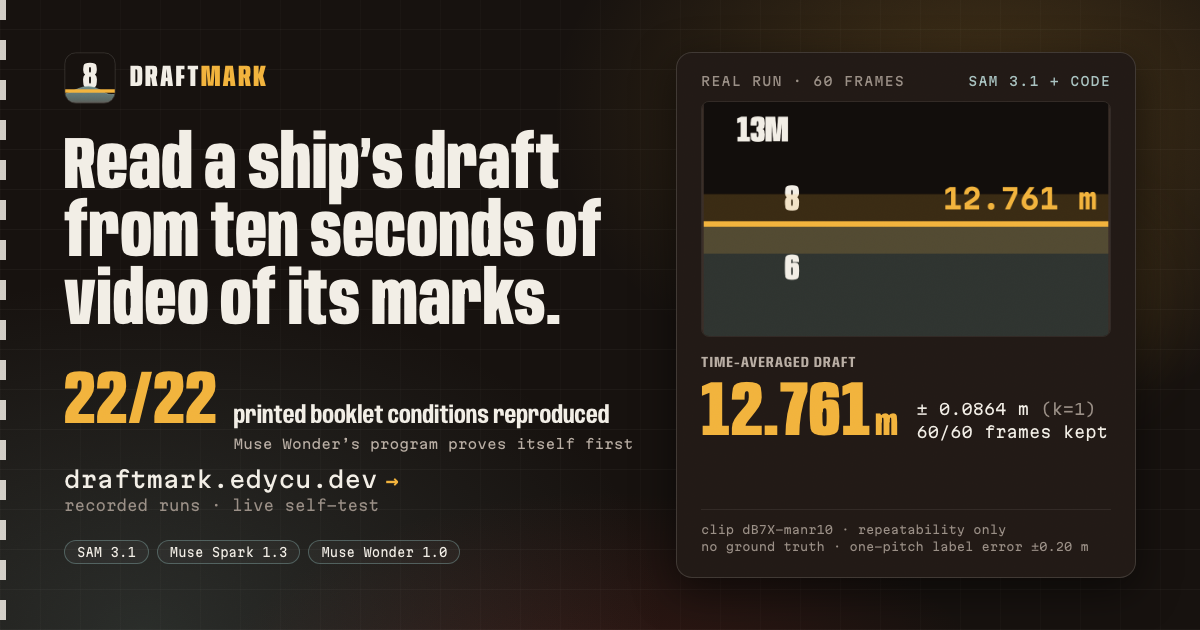
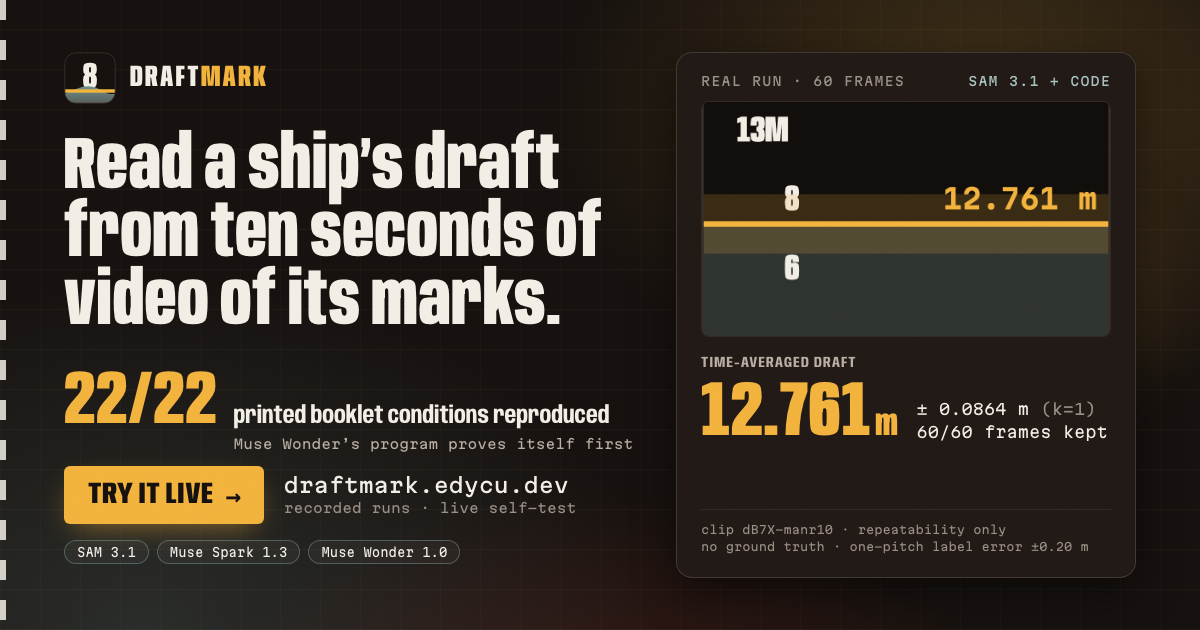
feat: architecture on the landing page and a deck slide, OG card call to action, faster first paint
- landing: unnumbered 'How it fits together' figure after line 005 (194 KB webp, lazy)
- deck: new slide 007 Architecture (landscape crop + legend); 12 slides
- og-image.png: 'Try it live' call to action (1200x630, 332 KB), cache bust v=7
- perf: hero h1 no longer animates (LCP), no layout read on load (forced reflow),
  version.json fetched only when a version stamp scrolls into view
- a11y: alt texts under 100 characters

Changed region(s): [[0.0308, 0.7238, 0.4933, 0.8746]]

diff --git a/public/index.html b/public/index.html
@@ -16,7 +16,7 @@
 <meta property="og:url" content="https://draftmark.edycu.dev/">
 <meta property="og:title" content="DraftMark — read a ship's draft from ten seconds of video">
 <meta property="og:description" content="SAM 3.1 finds the marks and water; code averages the waterline; Muse Wonder 1.0 writes the program, the booklet grades it.">
-<meta property="og:image" content="https://draftmark.edycu.dev/og-image.png?v=6">
+<meta property="og:image" content="https://draftmark.edycu.dev/og-image.png?v=7">
 <meta property="og:image:width" content="1200">
 <meta property="og:image:height" content="630">
 <meta property="og:image:alt" content="DraftMark — time-average a ship's waterline from ten seconds of video of its draft marks; Muse Wonder's program reproduced 22/22 printed booklet conditions">
@@ -24,7 +24,7 @@
 <meta name="twitter:creator" content="@edycutjong">
 <meta name="twitter:title" content="DraftMark — read a ship's draft from ten seconds of video">
 <meta name="twitter:description" content="SAM 3.1 finds the marks and water; code averages the waterline; Muse Wonder 1.0 writes the program, the booklet grades it.">
-<meta name="twitter:image" content="https://draftmark.edycu.dev/og-image.png?v=6">
+<meta name="twitter:image" content="https://draftmark.edycu.dev/og-image.png?v=7">
 <link rel="preload" href="fonts/anybody-100-900.woff2" as="font" type="font/woff2" crossorigin>
 <link rel="preload" href="fonts/ibm-plex-sans-400-600.woff2" as="font" type="font/woff2" crossorigin>
 <link rel="preload" href="fonts/martian-mono-400-600.woff2" as="font" type="font/woff2" crossorigin>
@@ -265,6 +265,7 @@ h2 em{font-style:normal;color:var(--after)}
 
 /* ---------- demo pair: terminal replay + real screen ---------- */
 .sec--demo{background:linear-gradient(180deg,#1b1411,var(--bg))}
+.arch{margin:32px 0 0}.arch>a{display:block;border:1px solid var(--rule);border-radius:6px;overflow:hidden;background:var(--bg);box-shadow:0 30px 60px -36px rgba(0,0,0,.9);transition:border-color .18s}.arch>a:hover{border-color:var(--muted)}.arch img{display:block;width:100%;height:auto}.arch .cap a{color:inherit;text-decoration:underline;text-underline-offset:3px}
 .tabs{display:flex;gap:6px;margin:0 0 18px;flex-wrap:wrap}
 .tabs button{font:500 13px/1 var(--font-data);color:var(--muted);background:transparent;border:1px solid var(--rule);border-radius:3px;padding:12px 14px;cursor:pointer;min-height:44px;transition:color .18s,border-color .18s,background .18s}
 .tabs button:hover{color:var(--ink);border-color:var(--muted)}
@@ -362,7 +363,7 @@ h2 em{font-style:normal;color:var(--after)}
   <div class="wrap hero__grid">
     <div>
       <p class="where stag"><b>DraftMark</b> · measures a moving waterline over 60 frames of video</p>
-      <h1 class="stag"><span class="l">The sea keeps</span> <span class="l">moving. The reading</span> <em class="l">finally holds still.</em></h1>
+      <h1><span class="l">The sea keeps</span> <span class="l">moving. The reading</span> <em class="l">finally holds still.</em></h1>
       <p class="lede stag">Before dawn, a surveyor must turn a moving waterline into the one draft reading the cargo figure hangs on. On a 2&times; crop of the mark column, SAM&nbsp;3.1 finds the marks in <b data-proof="evidence/core-run-dB7X.md">60 of 60 frames</b> of a real hull clip; separately, the program Muse Wonder&nbsp;1.0 wrote must reproduce one booklet&rsquo;s printed conditions before it may compute (after two regenerations, <b data-proof="evidence/selftest-booklet.md">22 of 22</b>).</p>
       <div class="cta stag">
         <a class="btn" href="https://github.com/edycutjong/draftmark"><svg viewBox="0 0 16 16" aria-hidden="true"><path fill="currentColor" d="M8 0a8 8 0 0 0-2.53 15.59c.4.07.55-.17.55-.38v-1.33c-2.23.48-2.7-1.07-2.7-1.07-.36-.92-.89-1.17-.89-1.17-.73-.5.06-.49.06-.49.8.06 1.23.83 1.23.83.72 1.22 1.88.87 2.34.66.07-.52.28-.87.5-1.07-1.78-.2-3.65-.89-3.65-3.95 0-.87.31-1.59.82-2.15-.08-.2-.36-1.02.08-2.12 0 0 .67-.22 2.2.82a7.6 7.6 0 0 1 4 0c1.53-1.04 2.2-.82 2.2-.82.44 1.1.16 1.92.08 2.12.51.56.82 1.28.82 2.15 0 3.07-1.87 3.75-3.66 3.95.29.25.54.73.54 1.48v2.2c0 .21.15.46.55.38A8 8 0 0 0 8 0Z"/></svg>GitHub</a>
@@ -376,7 +377,7 @@ h2 em{font-style:normal;color:var(--after)}
     <figure class="inst" id="inst" style="margin:0">
       <div class="inst__top"><span class="rec" id="recLabel">clip dB7X · recorded, redrawn 1×</span><span>SAM 3.1 + code · 6 fps</span></div>
       <svg id="vis" viewBox="0 0 640 520" role="img" aria-labelledby="visT">
-        <title id="visT">Real clip dB7X: the waterline measured in each of 60 frames moves across the painted marks 6, 8, 13M and 2; the running mean settles and holds at 12.761 metres, plus or minus 0.086 metres (repeatability).</title>
+        <title id="visT">Real clip dB7X: 60 per-frame waterline readings settle at 12.761 m ± 0.086 m</title>
         <defs>
           <linearGradient id="hullG" x1="0" y1="0" x2="0" y2="1"><stop offset="0" stop-color="#1c1512"/><stop offset=".62" stop-color="#17120F"/><stop offset=".63" stop-color="#5b1d17"/><stop offset="1" stop-color="#8E2B22"/></linearGradient>
           <linearGradient id="seaG" x1="0" y1="0" x2="0" y2="1"><stop offset="0" stop-color="#6F8C8A" stop-opacity=".78"/><stop offset="1" stop-color="#22302e" stop-opacity=".96"/></linearGradient>
@@ -470,7 +471,7 @@ h2 em{font-style:normal;color:var(--after)}
     </div>
     <div class="rv">
       <div class="frame"><div class="frame__bar"><i></i><i></i><i></i><span>draftmark.edycu.dev/runs · clip dB7X</span></div>
-        <img src="media/measure-grid.webp" width="1400" height="1037" loading="lazy" decoding="async" alt="The product's measurement view for clip dB7X: SAM 3.1 boxes on the painted marks, the 60 per-frame drafts with the running mean settling at 12.761 m, and the result table (repeatability ±0.0864 m, 60 of 60 frames kept).">
+        <img src="media/measure-grid.webp" width="1400" height="1037" loading="lazy" decoding="async" alt="Measurement view, clip dB7X: SAM 3.1 boxes on the marks; the mean settles at 12.761 m">
       </div>
       <p class="cap">Recorded run <span class="data">rec-db7x-20261031</span>. Code averages through the swell: MAD outliers out, N<sub>eff</sub> 3.55 from the autocorrelation, u&nbsp;≈&nbsp;sd/√N<sub>eff</sub> on this clip.</p>
     </div>
@@ -522,9 +523,9 @@ h2 em{font-style:normal;color:var(--after)}
       </ol>
     </div>
     <div class="stamps rv">
-      <figure class="pin" style="margin:0"><img src="media/stamp-refuse.webp" width="1220" height="248" loading="lazy" decoding="async" alt="Certificate stamp: REFUSE, OUT_OF_TABLE, matrix row 4. The draft is outside the vessel's hydrostatic table: the program refuses to extrapolate."><figcaption>rec-db7x-20261031 · real hull · d 12.761 m</figcaption></figure>
-      <figure class="pin" style="margin:0"><img src="media/stamp-issue.webp" width="1356" height="230" loading="lazy" decoding="async" alt="Certificate stamp: ISSUE WITH WARNING, matrix row 9, POSITIONS_ENTERED: some draft positions were entered, not measured from a clip (6 positions entered)."><figcaption>rec-trieste-20261031 · booklet condition 4.1 · 6 drafts entered</figcaption></figure>
-      <figure class="pin" style="margin:0"><img src="media/certificate-db7x.webp" width="1100" height="993" loading="lazy" decoding="async" alt="Top of the printable certificate for recorded run rec-db7x-20261031, with the measured draft, the label checks and the REFUSE decision."><figcaption>printable certificate · draftmark.edycu.dev/certificate/rec-db7x-20261031</figcaption></figure>
+      <figure class="pin" style="margin:0"><img src="media/stamp-refuse.webp" width="1220" height="248" loading="lazy" decoding="async" alt="Certificate stamp: REFUSE, OUT_OF_TABLE, matrix row 4"><figcaption>rec-db7x-20261031 · real hull · d 12.761 m</figcaption></figure>
+      <figure class="pin" style="margin:0"><img src="media/stamp-issue.webp" width="1356" height="230" loading="lazy" decoding="async" alt="Certificate stamp: ISSUE WITH WARNING, matrix row 9, 6 positions entered"><figcaption>rec-trieste-20261031 · booklet condition 4.1 · 6 drafts entered</figcaption></figure>
+      <figure class="pin" style="margin:0"><img src="media/certificate-db7x.webp" width="1100" height="993" loading="lazy" decoding="async" alt="Top of the printable certificate for run rec-db7x-20261031, ending in REFUSE"><figcaption>printable certificate · draftmark.edycu.dev/certificate/rec-db7x-20261031</figcaption></figure>
     </div>
   </div>
 </section>
@@ -543,6 +544,20 @@ h2 em{font-style:normal;color:var(--after)}
       <div><b data-proof="evidence/eval-synthetic.md">0.12 %</b><p>median cargo error vs the synthetic truth; the draft reads slightly low on 10 of 12 loads</p></div>
       <div><b data-proof="evidence/eval-synthetic.md">0 / 12</b><p>clips where SAM found the rendered water; the water mask is a stand-in</p></div>
     </div>
+  </div>
+</section>
+
+<!-- ===================== ARCHITECTURE (unnumbered: sums up 001–005) ===================== -->
+<section class="sec sec--arch" id="architecture" data-no="" aria-labelledby="archH">
+  <div class="wrap">
+    <div class="rv">
+      <p class="line-no">How it fits together</p>
+      <h2 id="archH">Three models, one pinned program, <em>one signed certificate.</em></h2>
+    </div>
+    <figure class="arch rv">
+      <a href="https://github.com/edycutjong/draftmark/blob/main/docs/assets/architecture.png" title="Full-size architecture diagram"><img src="media/architecture.webp" width="1600" height="1496" loading="lazy" decoding="async" alt="DraftMark architecture: per-clip live pipeline, per-vessel proven program, certificate or refusal"></a>
+      <figcaption class="cap">Meta model calls in sea-green, code in grey, the settled draft in amber. <a href="https://github.com/edycutjong/draftmark/blob/main/docs/ARCHITECTURE.md">docs/ARCHITECTURE.md</a></figcaption>
+    </figure>
   </div>
 </section>
 
@@ -573,7 +588,7 @@ h2 em{font-style:normal;color:var(--after)}
 {"run": "rec-db7x-20261031", "kept": 60, "usd": 0.0397}
 </pre></div>
       <div><div class="frame"><div class="frame__bar"><i></i><i></i><i></i><span>draftmark.edycu.dev/runs</span></div>
-        <img src="media/wave-chart.webp" width="1400" height="709" loading="lazy" decoding="async" alt="The product's wave chart for clip dB7X: per-frame drafts in sea-glass, the running mean in amber settling at 12.761 m, plus or minus 0.0864 m."></div>
+        <img src="media/wave-chart.webp" width="1400" height="709" loading="lazy" decoding="async" alt="Wave chart, clip dB7X: per-frame drafts and the running mean settling at 12.761 m"></div>
         <p class="cap">The measurement stands (repeatability only, no ground truth). No cargo is computed for a real-hull test clip.</p></div>
     </div>
     <div class="panel pair" id="p-tri" role="tabpanel" aria-labelledby="tab-tri" hidden>
@@ -589,7 +604,7 @@ h2 em{font-style:normal;color:var(--after)}
 {"selftest": "22/22 PASS", "disp": 17825.8, "printed": 17827.7}
 </pre></div>
       <div><div class="frame"><div class="frame__bar"><i></i><i></i><i></i><span>draftmark.edycu.dev/runs</span></div>
-        <img src="media/program-proof.webp" width="1200" height="1337" loading="lazy" decoding="async" alt="The product's program proof: the self-test table with 22 of 22 printed booklet conditions passing, and Wonder's three attempts (gate reject, 14 of 22, 22 of 22)."></div>
+        <img src="media/program-proof.webp" width="1200" height="1337" loading="lazy" decoding="async" alt="Program proof: 22 of 22 booklet conditions pass after Wonder's three attempts"></div>
         <p class="cap">No cargo figure: no lightship or initial survey was entered.</p></div>
     </div>
   </div>
@@ -601,7 +616,7 @@ h2 em{font-style:normal;color:var(--after)}
     <h2 class="rv">What stops it <em>from lying</em></h2>
     <div class="bento">
       <article class="cell cell--a rv">
-        <svg class="glyph" viewBox="0 0 520 170" role="img" aria-label="The generated program passes a static gate, then runs in a sandbox subprocess with no network; JSON goes in and comes out."><rect x="1" y="1" width="518" height="168" rx="6" fill="none" stroke="#3A2E28" stroke-width="2"/><text x="16" y="24" font-family="Martian Mono,monospace" font-size="12" fill="#9A8F86">server (parent) spawns →</text><rect x="196" y="44" width="300" height="104" rx="5" fill="rgba(242,179,61,.05)" stroke="#F2B33D" stroke-width="2"/><text x="212" y="68" font-family="Martian Mono,monospace" font-size="12" fill="#F2B33D">child subprocess · no network</text><text x="212" y="98" font-family="Martian Mono,monospace" font-size="13" fill="#F2EEE6">program.py  (sha 4b3aa8cd…)</text><text x="212" y="126" font-family="Martian Mono,monospace" font-size="12" fill="#9A8F86">JSON in → JSON out</text><text x="16" y="92" font-family="Martian Mono,monospace" font-size="12" fill="#F2EEE6">static gate</text><text x="16" y="112" font-family="Martian Mono,monospace" font-size="11" fill="#DF5E44">globals, dunders,</text><text x="16" y="128" font-family="Martian Mono,monospace" font-size="11" fill="#DF5E44">str.format: refused</text><path d="M150 98 H190" stroke="#F2B33D" stroke-width="2"/><path d="M184 92 l8 6 -8 6" fill="none" stroke="#F2B33D" stroke-width="2"/><path d="M496 30 L510 16 M510 30 L496 16" stroke="#D9543B" stroke-width="2"/><text x="440" y="27" font-family="Martian Mono,monospace" font-size="11" fill="#9A8F86">net</text></svg>
+        <svg class="glyph" viewBox="0 0 520 170" role="img" aria-label="Static gate, then a no-network sandbox subprocess; JSON in, JSON out"><rect x="1" y="1" width="518" height="168" rx="6" fill="none" stroke="#3A2E28" stroke-width="2"/><text x="16" y="24" font-family="Martian Mono,monospace" font-size="12" fill="#9A8F86">server (parent) spawns →</text><rect x="196" y="44" width="300" height="104" rx="5" fill="rgba(242,179,61,.05)" stroke="#F2B33D" stroke-width="2"/><text x="212" y="68" font-family="Martian Mono,monospace" font-size="12" fill="#F2B33D">child subprocess · no network</text><text x="212" y="98" font-family="Martian Mono,monospace" font-size="13" fill="#F2EEE6">program.py  (sha 4b3aa8cd…)</text><text x="212" y="126" font-family="Martian Mono,monospace" font-size="12" fill="#9A8F86">JSON in → JSON out</text><text x="16" y="92" font-family="Martian Mono,monospace" font-size="12" fill="#F2EEE6">static gate</text><text x="16" y="112" font-family="Martian Mono,monospace" font-size="11" fill="#DF5E44">globals, dunders,</text><text x="16" y="128" font-family="Martian Mono,monospace" font-size="11" fill="#DF5E44">str.format: refused</text><path d="M150 98 H190" stroke="#F2B33D" stroke-width="2"/><path d="M184 92 l8 6 -8 6" fill="none" stroke="#F2B33D" stroke-width="2"/><path d="M496 30 L510 16 M510 30 L496 16" stroke="#D9543B" stroke-width="2"/><text x="440" y="27" font-family="Martian Mono,monospace" font-size="11" fill="#9A8F86">net</text></svg>
         <h3>Generated code never runs in the server process</h3>
         <p>A static gate, then a no-network sandbox subprocess, JSON in and out. Two escapes, <span class="data">re.enum.sys</span> from our own testing and a format-string walk from architecture review, are regression tests now.</p>
         <span class="chip">api/_core/sandbox.py</span><span class="chip">tests/test_sandbox.py</span>
@@ -835,9 +850,8 @@ document.documentElement.classList.add("js");
           io.unobserve(e.target);
         });
       }, { rootMargin: "0px 0px -8% 0px" });
-      [].forEach.call(document.querySelectorAll(".rv"), function (e) {
-        if (e.getBoundingClientRect().top > window.innerHeight) io.observe(e); else e.classList.add("in");
-      });
+      // no layout reads here (a forced reflow on load): the observer reports what is already in view on its first callback
+      [].forEach.call(document.querySelectorAll(".rv"), function (e) { io.observe(e); });
       cus.forEach(function (c) { io.observe(c); });
       io.observe($("replay"));
       var so = new IntersectionObserver(function (es) {
@@ -852,10 +866,22 @@ document.documentElement.classList.add("js");
 </script>
 <script>
 // Current release, written at build time by scripts/write-version.mjs (the static text is the fallback).
-fetch("/version.json").then(function (r) { return r.ok ? r.json() : null; }).then(function (v) {
-  if (!v || !v.version) return;
-  document.querySelectorAll("[data-app-version]").forEach(function (el) { el.textContent = v.version; });
-}).catch(function () {});
+// Fetched after load, off the critical path (the static text already shows a version).
+function dmVersion() {
+  fetch("/version.json").then(function (r) { return r.ok ? r.json() : null; }).then(function (v) {
+    if (!v || !v.version) return;
+    document.querySelectorAll("[data-app-version]").forEach(function (el) { el.textContent = v.version; });
+  }).catch(function () {});
+}
+// only when a version stamp scrolls into view (the footer), so it is never a request on the first paint
+(function () {
+  var els = document.querySelectorAll("[data-app-version]");
+  if (!("IntersectionObserver" in window)) return void addEventListener("load", dmVersion);
+  var io = new IntersectionObserver(function (es) {
+    if (es.some(function (e) { return e.isIntersecting; })) { io.disconnect(); dmVersion(); }
+  }, { rootMargin: "0px 0px 300px 0px" });
+  els.forEach(function (el) { io.observe(el); });
+})();
 </script>
 </body>
 </html>

diff --git a/public/deck/index.html b/public/deck/index.html
@@ -8,7 +8,7 @@
 <meta name="color-scheme" content="dark">
 <meta name="theme-color" content="#17120F">
 <meta property="og:title" content="DraftMark — pitch deck">
-<meta property="og:image" content="https://draftmark.edycu.dev/og-image.png?v=6">
+<meta property="og:image" content="https://draftmark.edycu.dev/og-image.png?v=7">
 <link rel="icon" href="../icon.svg" type="image/svg+xml">
 <link rel="preload" href="../fonts/anybody-100-900.woff2" as="font" type="font/woff2" crossorigin>
 <style>
@@ -145,7 +145,23 @@ p.say b{color:var(--ink)}
 .pin{background:#120e0c;border-radius:10px;padding:20px;box-shadow:0 30px 50px -30px rgba(40,25,10,.6);margin:0 0 46px}
 .pin img{display:block;width:100%;height:auto}
 .pin figcaption{font:400 24px/1.4 var(--font-data);color:#B8AEA3;padding:14px 4px 0}
-/* 7 · synthetic */
+/* 7 · architecture */
+.arch{padding:72px 90px 64px 150px;justify-content:flex-start}
+.arch .eyebrow{margin-bottom:22px}
+.arch__grid{display:grid;grid-template-columns:minmax(0,1fr) 300px;gap:40px;align-items:end;min-height:0;flex:1}
+.arch__fig{margin:0;align-self:start;max-height:100%}
+.arch__fig img{display:block;width:100%;height:auto;max-height:880px;object-fit:contain;object-position:left top;border:1.5px solid var(--rule);border-radius:10px}
+.arch__key{list-style:none;margin:0;padding:0;display:flex;flex-direction:column;gap:22px;font:400 22px/1.35 var(--font-data);color:var(--muted)}
+.arch__key li{display:flex;gap:14px;align-items:center}
+.arch__key i{flex:none;width:34px;height:22px;border-radius:3px}
+.arch__key .k-meta{border:2px solid var(--before);background:var(--plate)}
+.arch__key .k-off{border:2px dashed var(--before)}
+.arch__key .k-code{border:2px solid #4A3D35;background:var(--plate)}
+.arch__key .k-hmac{height:4px;background:var(--ink)}
+.arch__key .k-pass{height:4px;background:var(--after)}
+.arch__key .arch__note{display:block;border-top:1.5px solid var(--rule);padding-top:22px;font-size:21px;color:#B5ABA1}
+.arch__key .arch__note b{color:var(--after);font-weight:500}
+/* 8 · synthetic */
 .nums{display:grid;grid-template-columns:repeat(3,1fr);gap:0;margin-top:40px;border-top:1.5px solid var(--rule)}
 .nums > div{padding:44px 40px 0 0}
 .nums b{display:block;font:800 100px/1 var(--font-display);font-stretch:62%}
@@ -337,8 +353,25 @@ body.shownotes .notes{display:block;position:absolute;left:170px;right:140px;bot
   <aside class="notes">No model writes a figure on the certificate. The refusal is the design: the program will not extrapolate past the hydrostatic table.</aside>
 </section>
 
-<!-- 7 · accuracy, honestly -->
-<section class="slide" data-line="007" aria-label="Accuracy, honestly">
+<!-- 7 · architecture: the whole system on one slide -->
+<section class="slide arch" data-line="007" aria-label="Architecture">
+  <p class="eyebrow">Architecture · how it fits together</p>
+  <div class="arch__grid">
+    <figure class="arch__fig"><img src="../media/architecture-slide.webp" width="2600" height="1674" alt="DraftMark architecture. Per clip, live: phone clip, then SAM 3.1 finds the marks and the water edge, then Muse Spark 1.3 reads the painted marks with five code checks, then code averages the swell to d ± u; each hand-off is HMAC-signed. Per vessel: Muse Wonder 1.0 writes the program offline, a no-network sandbox self-tests it on 22 of 22 printed booklet rows, the proven program is pinned by sha256, and the survey runs it. Code issues a certificate or refuses: OUT_OF_TABLE, UNSIGNED."></figure>
+    <ul class="arch__key">
+      <li><i class="k-meta"></i><span>Meta model call</span></li>
+      <li><i class="k-off"></i><span>Offline, cached</span></li>
+      <li><i class="k-code"></i><span>Code, no model</span></li>
+      <li><i class="k-hmac"></i><span>HMAC hand-off, verified next</span></li>
+      <li><i class="k-pass"></i><span>Settled / PASS</span></li>
+      <li class="arch__note">No database: the browser carries the signed JSON. <b>LIVE_MODE=off</b> falls back to a recorded run.</li>
+    </ul>
+  </div>
+  <aside class="notes">Top row runs per clip, live: every station is one stateless endpoint and signs its output. Bottom row runs once per vessel: Wonder writes the program, the sandbox proves it on the booklet, then it is pinned. Code alone writes the certificate, or refuses.</aside>
+</section>
+
+<!-- 8 · accuracy, honestly -->
+<section class="slide" data-line="008" aria-label="Accuracy, honestly">
   <span class="tag">SYNTHETIC</span>
   <h2 style="max-width:none">Checked against a known truth.<br><em>A rendered one, for now.</em></h2>
   <p class="say" style="max-width:56ch">The real clips end in refusal, so the weight is checked on twelve loads of a barge drawn in code: waterline from physics, swell and camera noise added on purpose.</p>
@@ -351,8 +384,8 @@ body.shownotes .notes{display:block;position:absolute;left:170px;right:140px;bot
   <aside class="notes">Twelve loads of a barge drawn in code, truth by physics. SAM segments the rendered numerals and Spark reads them, live; SAM finds no rendered water, so the water edge is a colour threshold. It checks the chain, not real water.</aside>
 </section>
 
-<!-- 8 · three Meta models, one job each, each with its receipt -->
-<section class="slide" data-line="008" aria-label="Meta models and their receipts">
+<!-- 9 · three Meta models, one job each, each with its receipt -->
+<section class="slide" data-line="009" aria-label="Meta models and their receipts">
   <p class="eyebrow">Three Meta models · one load-bearing job each · code does the rest</p>
   <h2 style="max-width:none">Each model does <em>one job, with a receipt.</em></h2>
   <div class="jobs">
@@ -365,8 +398,8 @@ body.shownotes .notes{display:block;position:absolute;left:170px;right:140px;bot
   <aside class="notes">Each model owns one stage: without SAM there is nothing to measure; without Spark the labels must be typed in (marked degraded); without Wonder there is no model-written program for a new booklet.</aside>
 </section>
 
-<!-- 9 · what is new, measured against our own baselines (evidence/selftest-booklet.md) -->
-<section class="slide" data-line="009" aria-label="What is new">
+<!-- 10 · what is new, measured against our own baselines (evidence/selftest-booklet.md) -->
+<section class="slide" data-line="010" aria-label="What is new">
   <p class="eyebrow">What is new · measured against our own baselines</p>
   <h2 style="max-width:none">Why an agent, <em>not a template.</em></h2>
   <div class="nums ladder9">
@@ -378,8 +411,8 @@ body.shownotes .notes{display:block;position:absolute;left:170px;right:140px;bot
   <aside class="notes">Printed loading conditions of the Trieste booklet reproduced within 0.1 %: a generic textbook template 0/22, the booklet's section 3.1 applied verbatim 14/22, our hand-written reference 22/22, Wonder's program 22/22 after two regenerations. Nearest neighbours seen in public material (draft-survey spreadsheets and apps, academic draft-line readers, laser and radar draft systems, draft tubes) are not benchmarked here.</aside>
 </section>
 
-<!-- 10 · honest limits -->
-<section class="slide paper" data-line="010" aria-label="Honest limits">
+<!-- 11 · honest limits -->
+<section class="slide paper" data-line="011" aria-label="Honest limits">
   <p class="eyebrow">Honest limits · README</p>
   <h2>What it does <em>not</em> prove yet.</h2>
   <ul class="ledger">
@@ -392,8 +425,8 @@ body.shownotes .notes{display:block;position:absolute;left:170px;right:140px;bot
   <aside class="notes">Condensed from README Honest limits 1-6 (limit 4 folded into §2).</aside>
 </section>
 
-<!-- 11 · try it -->
-<section class="slide" data-line="011" aria-label="Try it">
+<!-- 12 · try it -->
+<section class="slide" data-line="012" aria-label="Try it">
   <div class="glow"></div>
   <div class="cols">
     <div>
@@ -410,7 +443,7 @@ body.shownotes .notes{display:block;position:absolute;left:170px;right:140px;bot
 
 <nav class="hud" aria-label="Deck controls">
   <button type="button" id="prev">← Prev</button>
-  <span id="count">01 / 11</span>
+  <span id="count">01 / 12</span>
   <span>← → keys · N notes · P print</span>
   <button type="button" id="next">Next →</button>
 </nav>
@@ -537,10 +570,22 @@ body.shownotes .notes{display:block;position:absolute;left:170px;right:140px;bot
 </script>
 <script>
 // Current release, written at build time by scripts/write-version.mjs (the static text is the fallback).
-fetch("/version.json").then(function (r) { return r.ok ? r.json() : null; }).then(function (v) {
-  if (!v || !v.version) return;
-  document.querySelectorAll("[data-app-version]").forEach(function (el) { el.textContent = v.version; });
-}).catch(function () {});
+// Fetched after load, off the critical path (the static text already shows a version).
+function dmVersion() {
+  fetch("/version.json").then(function (r) { return r.ok ? r.json() : null; }).then(function (v) {
+    if (!v || !v.version) return;
+    document.querySelectorAll("[data-app-version]").forEach(function (el) { el.textContent = v.version; });
+  }).catch(function () {});
+}
+// only when a version stamp scrolls into view (the footer), so it is never a request on the first paint
+(function () {
+  var els = document.querySelectorAll("[data-app-version]");
+  if (!("IntersectionObserver" in window)) return void addEventListener("load", dmVersion);
+  var io = new IntersectionObserver(function (es) {
+    if (es.some(function (e) { return e.isIntersecting; })) { io.disconnect(); dmVersion(); }
+  }, { rootMargin: "0px 0px 300px 0px" });
+  els.forEach(function (el) { io.observe(el); });
+})();
 </script>
 </body>
 </html>

diff --git a/public/judge/index.html b/public/judge/index.html
@@ -16,11 +16,11 @@
 <meta property="og:url" content="https://draftmark.edycu.dev/judge">
 <meta property="og:title" content="DraftMark — judge path">
 <meta property="og:description" content="Four stops, no upload and no judge code: Wonder's program re-run live, a real hull measured then refused, three attempts, two certificates.">
-<meta property="og:image" content="https://draftmark.edycu.dev/og-image.png?v=6">
+<meta property="og:image" content="https://draftmark.edycu.dev/og-image.png?v=7">
 <meta property="og:image:width" content="1200">
 <meta property="og:image:height" content="630">
 <meta name="twitter:card" content="summary_large_image">
-<meta name="twitter:image" content="https://draftmark.edycu.dev/og-image.png?v=6">
+<meta name="twitter:image" content="https://draftmark.edycu.dev/og-image.png?v=7">
 <link rel="preload" href="/fonts/anybody-100-900.woff2" as="font" type="font/woff2" crossorigin>
 <link rel="preload" href="/fonts/ibm-plex-sans-400-600.woff2" as="font" type="font/woff2" crossorigin>
 <link rel="preload" href="/fonts/martian-mono-400-600.woff2" as="font" type="font/woff2" crossorigin>
@@ -429,10 +429,22 @@ document.documentElement.classList.add("js");
 </script>
 <script>
 // Current release, written at build time by scripts/write-version.mjs (the static text is the fallback).
-fetch("/version.json").then(function (r) { return r.ok ? r.json() : null; }).then(function (v) {
-  if (!v || !v.version) return;
-  document.querySelectorAll("[data-app-version]").forEach(function (el) { el.textContent = v.version; });
-}).catch(function () {});
+// Fetched after load, off the critical path (the static text already shows a version).
+function dmVersion() {
+  fetch("/version.json").then(function (r) { return r.ok ? r.json() : null; }).then(function (v) {
+    if (!v || !v.version) return;
+    document.querySelectorAll("[data-app-version]").forEach(function (el) { el.textContent = v.version; });
+  }).catch(function () {});
+}
+// only when a version stamp scrolls into view (the footer), so it is never a request on the first paint
+(function () {
+  var els = document.querySelectorAll("[data-app-version]");
+  if (!("IntersectionObserver" in window)) return void addEventListener("load", dmVersion);
+  var io = new IntersectionObserver(function (es) {
+    if (es.some(function (e) { return e.isIntersecting; })) { io.disconnect(); dmVersion(); }
+  }, { rootMargin: "0px 0px 300px 0px" });
+  els.forEach(function (el) { io.observe(el); });
+})();
 </script>
 </body>
 </html>

diff --git a/app/layout.tsx b/app/layout.tsx
@@ -9,7 +9,7 @@ const data = Martian_Mono({ subsets: ["latin"], variable: "--ff-data", display: 
 
 // Social card: public/og-image.png is EXACTLY 1200x630 (< 500 KB). Bump ?v= whenever the image changes —
 // platforms cache cards by URL, so a regenerated image without a new query string is never seen.
-const OG_IMAGE = "/og-image.png?v=6";
+const OG_IMAGE = "/og-image.png?v=7";
 const CARD_TITLE = "DraftMark — read a ship's draft from ten seconds of video";
 const CARD_DESCRIPTION =
   "SAM 3.1 finds the marks and water; code averages the waterline; Muse Wonder 1.0 writes the program, the booklet grades it.";
